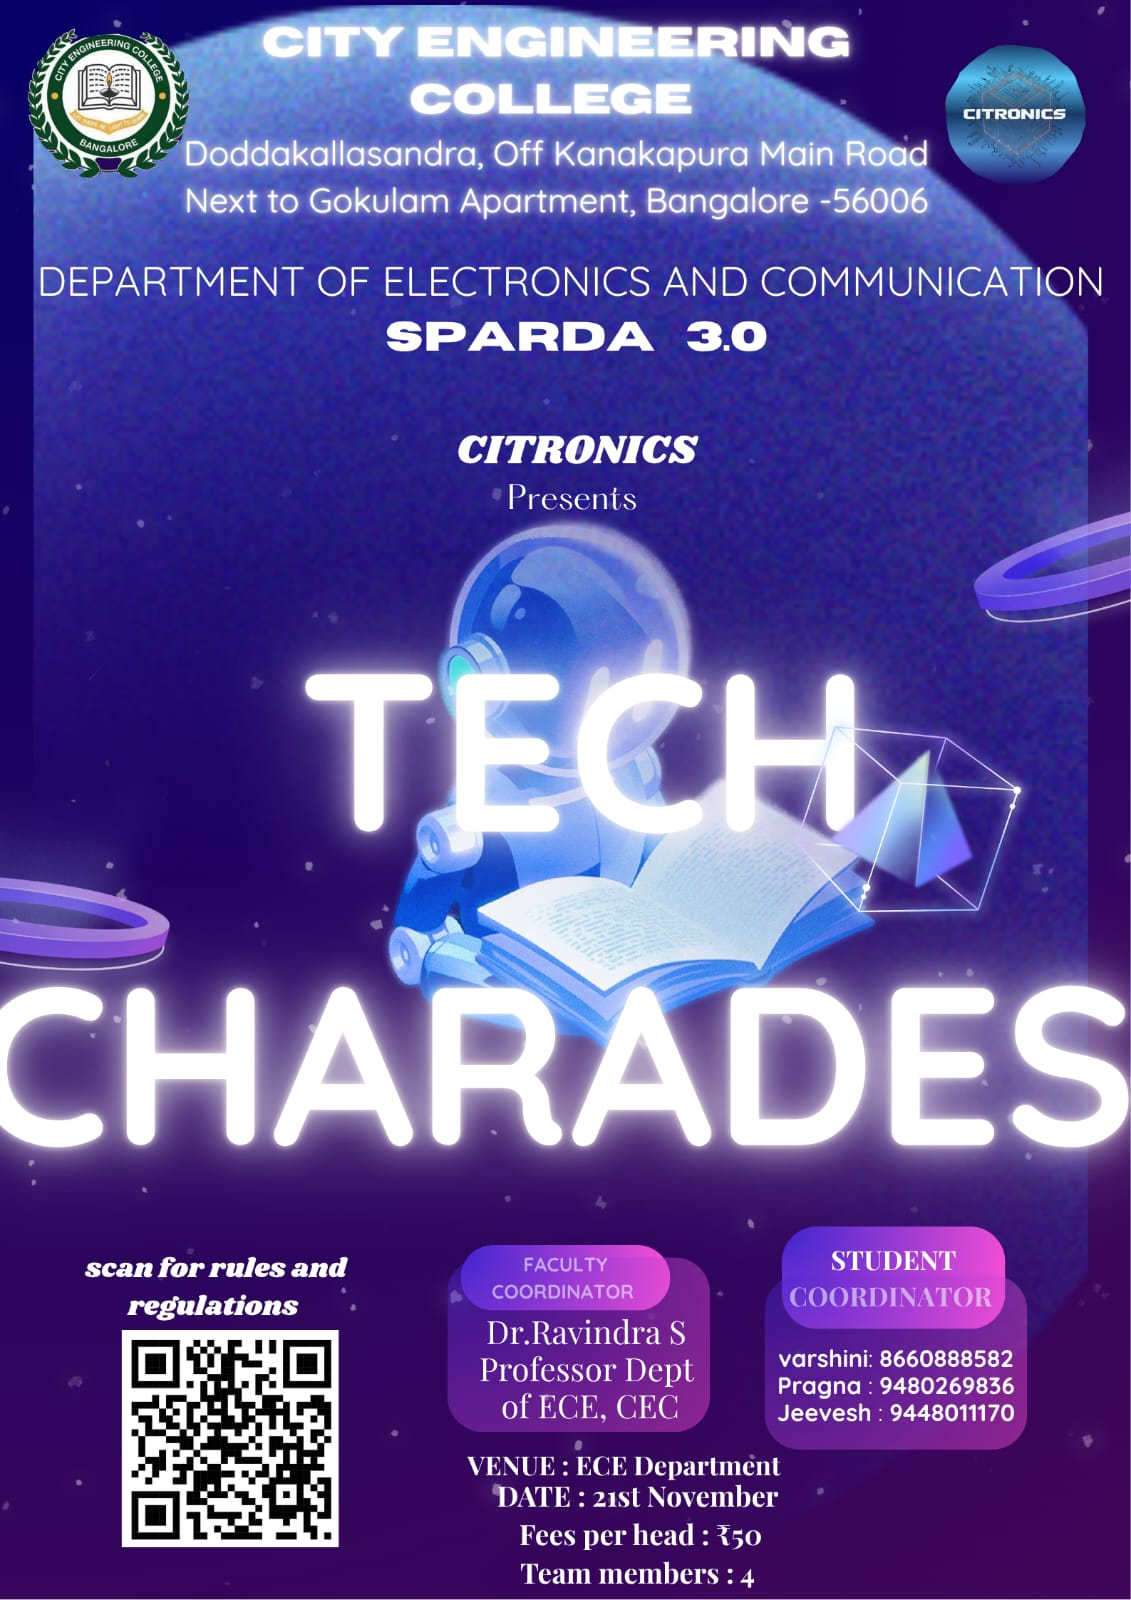
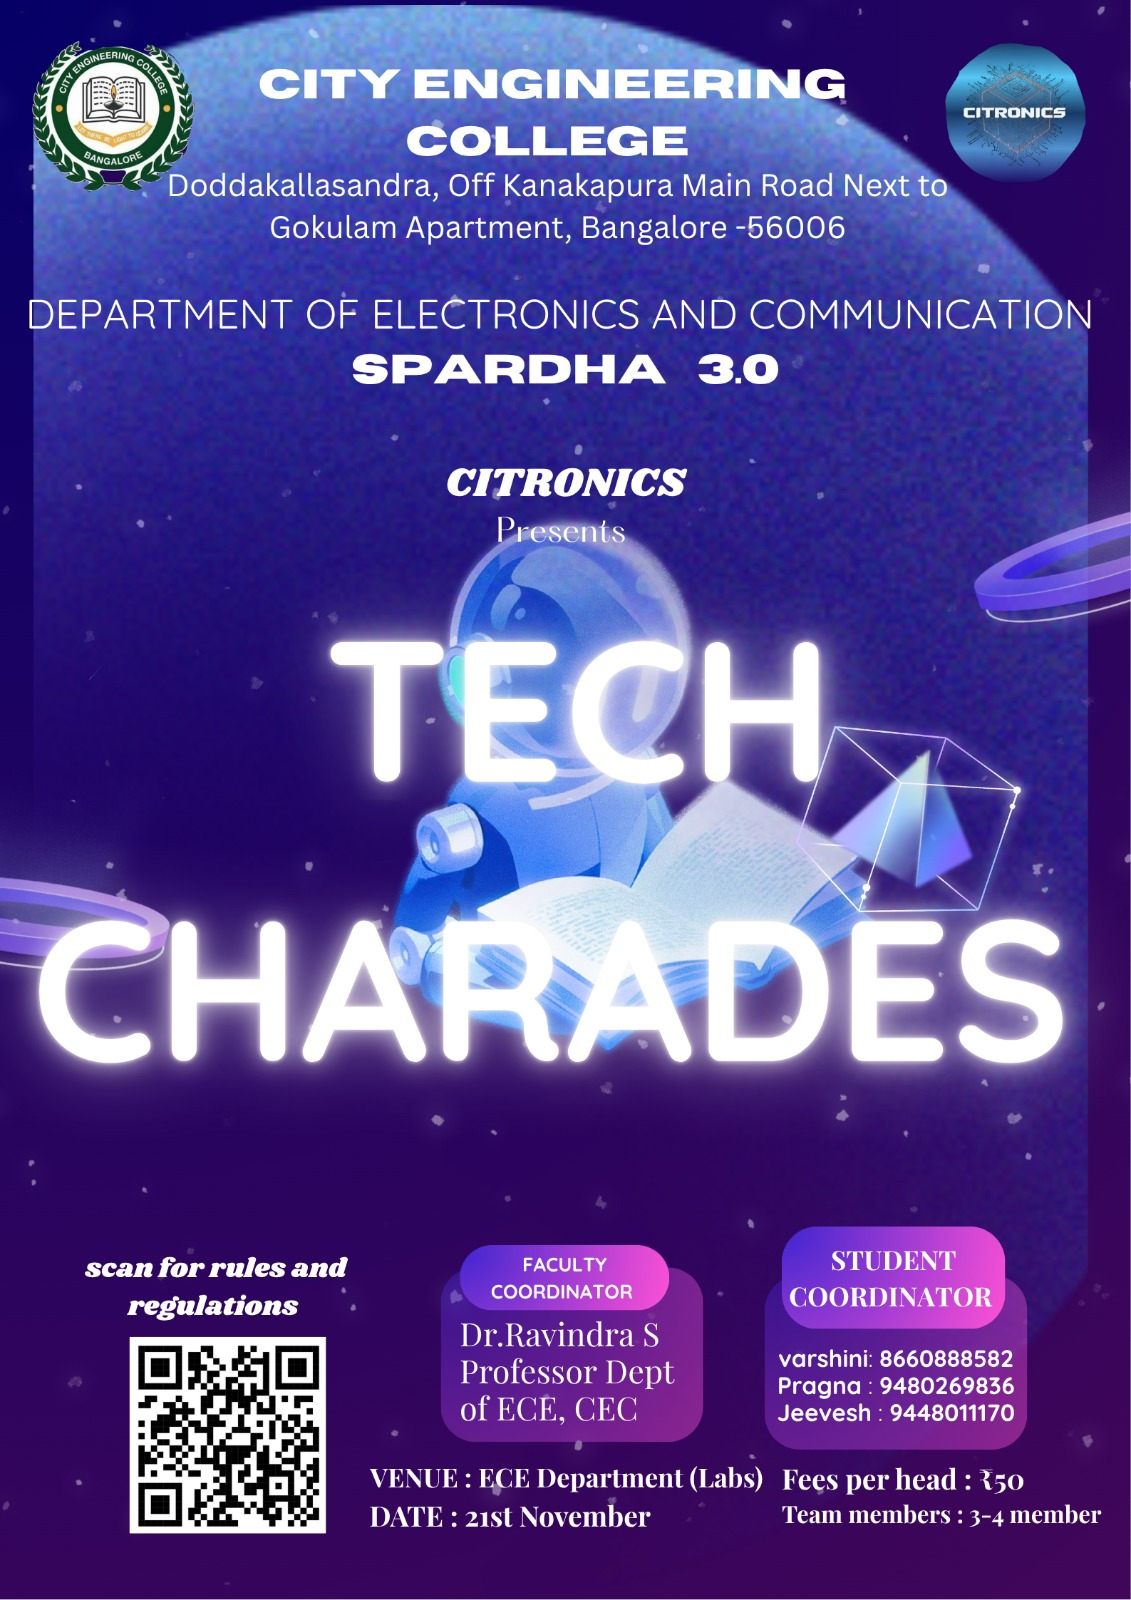
1. Main poster 2. Webcraft ka page se registration and venue we need to add 3. Treasure hunt registration part we need to be clear…if per team ya individual

diff --git a/spardha3.0/src/pages/WebCraft.jsx b/spardha3.0/src/pages/WebCraft.jsx
@@ -64,7 +64,7 @@ const WebCraft = () => {
           </div>
           <div>
             <h3>Registration fee: </h3>
-            <p>₹ 100 Per Teamo </p>
+            <p>₹ 100 Per Team </p>
           </div>
           <div>
             <h3>Contact</h3>

diff --git a/spardha3.0/src/pages/TreasureHunt.jsx b/spardha3.0/src/pages/TreasureHunt.jsx
@@ -61,7 +61,7 @@ const TreasureHunt = () => {
           </div>
           <div>
             <h3>Registration fee: </h3>
-            <p>₹ 100 </p>
+            <p>₹ 100/150 per team </p>
           </div>
           <div>
             <h3>Contact</h3>
